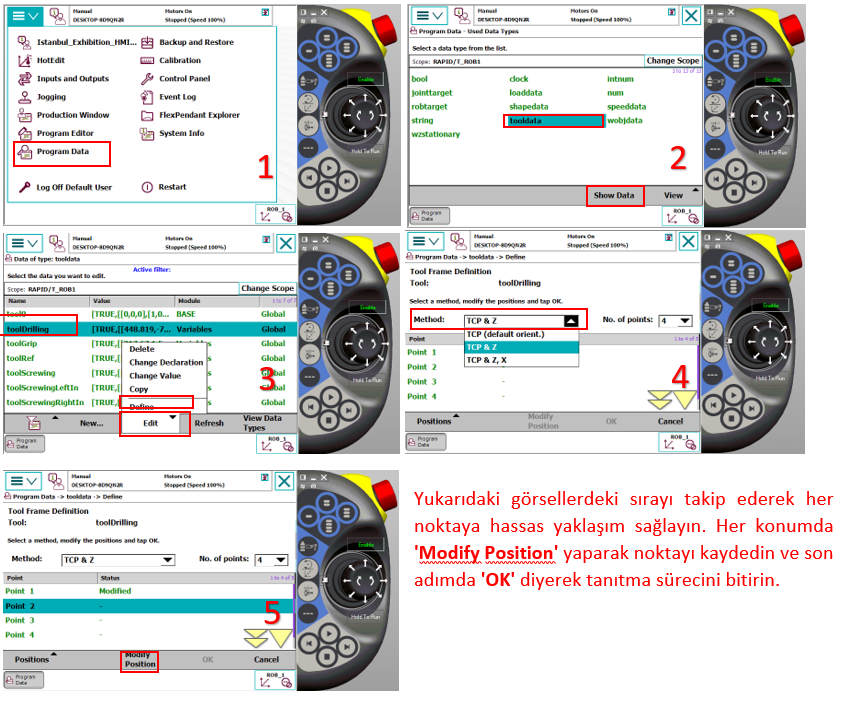
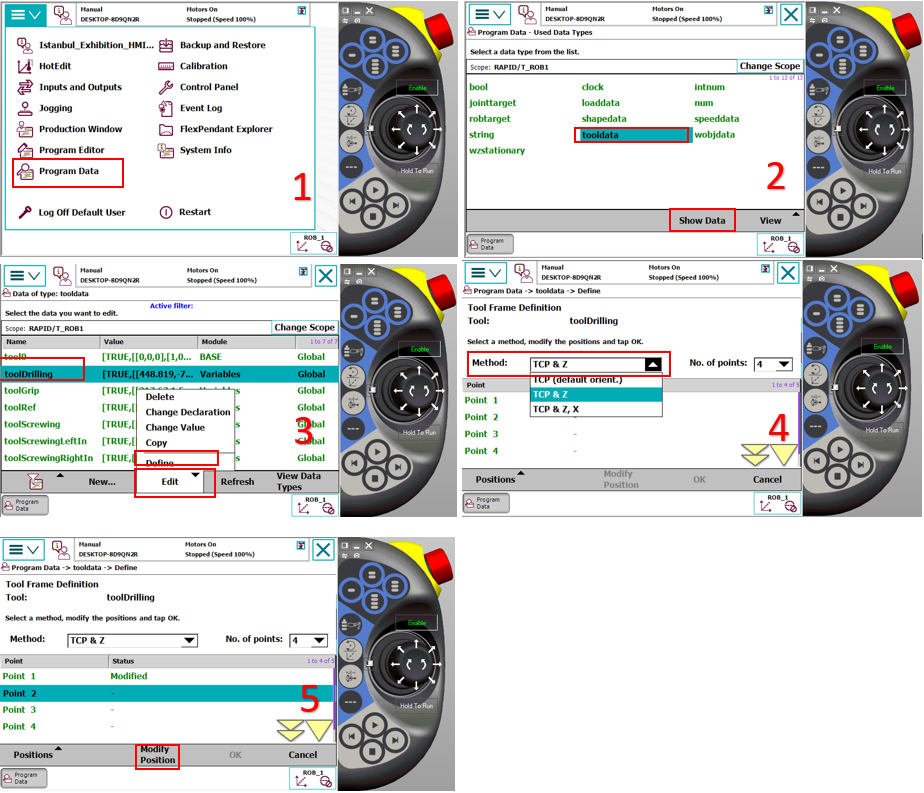
Update turkish.md

diff --git a/docs/turkish.md b/docs/turkish.md
@@ -4,52 +4,91 @@ Robot enerjilendiği zaman robot üzerindeki acil butonlar ve harici diğer etki
 
 ![KT803](_media/AcilDurdurma.png)
 
+**A:** Acil Buton 
+
+**B:** Motor On Buton
+
 ## Çalışma Modları
-- **Otomatik Mod :** Üretim Modu
-- **Manuel Mod :** Jog modda hareket ve kontroller yapılabilir.
 
 ![RG830](_media/ModSecim.png)
 
+- **A - Otomatik Mod :** Üretim Modu
+- **B - Manuel Mod :** Jog modda hareket ve kontroller yapılabilir.
+
 ## Jog Hareket ile Robot Eksen Kontrol 
+
 - Robot manuel moddayken, hareket birimlerini devreye almak için FlexPendant'ın sağ tarafında bulunan 'Motor On' (Motorları Aktif Etme) butonuna basılmalıdır.
 
 ![RG830](_media/MotorOnButon.png)
+
+**A:** Motor On Buton
 
 - Sol Üst menü çubuğundan Joging sayfasına girip eksenler ile ilgili durumları görebilirsiniz.
 - Robotta 1-6 arası eksenleri tek tek hareket ettirebiliriz. İlk basımda 1-3 arası ikinci basışta 4-6 arası eksen kontrollerinin yönlerini ilgili eksen numarasının altında görebilirsiniz.
 
 ![RG830](_media/1_6EksenSecim.png)
 
+**A:** 1-6 arası eksen kontrol seçimi
+
+**B:** Anlık seçili olan eksen aralığı
+
 - Robot, lineer olarak X, Y ve Z eksenlerinde hareket ettirilebilir. Bu hareketler, arayüzde seçilen İş Nesnesi (Wobj) referans alınarak gerçekleştirilir ve hareket yönü, ilgili Wobj'nin yönelimine göre tayin edilir.
 
 ![RG830](_media/LineerHareketSecim.png)
+
+**A:** Lineer ve Orientation Hareket Seçim Butonu
+
+**B:** Lineer Hareketin Gösterim Simgesi
 
 - Tool seçimine göre orientation hareket. 
 
 ![RG830](_media/OrientationHareketSecim.png)
 
-## Robot Eksen Kalibrasyonu
-- Robotun ilk kurulumu esnasında, her eksen için ayrı ayrı kalibrasyon işlemi gerçekleştirilmelidir. Kalibrasyon sırasında, her eksene ait sıfır noktası işaretleri (çentikler) birbirini tam karşılayacak şekilde, yüksek hassasiyetle hizalanmalıdır.
+**A:** Lineer ve Orientation Hareket Seçim Butonu
 
+**B:** Orientation Hareketin Gösterim Simgesi
+
+## Robot Eksen Kalibrasyonu
+
+- Robotun ilk kurulumu esnasında, her eksen için ayrı ayrı kalibrasyon işlemi gerçekleştirilmelidir. Kalibrasyon sırasında, her eksene ait sıfır noktası işaretleri (çentikler) birbirini tam karşılayacak şekilde, yüksek hassasiyetle hizalanmalıdır. Her eksenin kendine ait çentiği bulunmaktadır.
 
 ![RG830](_media/EksenCentikleri.png)
 
-- Robot üzerindeki tüm eksenler fiziksel olarak kalibrasyon çentikleriyle hizalandıktan sonra, ilgili değerleri FlexPendant üzerinden kaydetmek için aşağıdaki görsel adımları takip edebilirsiniz. Bu işlem, robotun ilk kurulumunda veya sistemden 'Robot kalibrasyonu kayboldu' uyarısı alındığında uygulanmalıdır.
+- Robot üzerindeki tüm eksenler fiziksel olarak kalibrasyon çentikleriyle hizalandıktan sonra, ilgili değerleri FlexPendant üzerinden kaydetmek için aşağıdaki görsel adımlarını takip edebilirsiniz. Bu işlem, robotun ilk kurulumunda veya sistemden 'Robot kalibrasyonu kayboldu' uyarısı alındığında uygulanmalıdır.
 
 ![RG830](_media/RobotEksenKalibrasyonu.png)
 
 ## TCP (Tool Center Point) Tanıtımı
 
-TCP, robotun uç işlevcisinin (tutucu, vidalama, delme vb.) iş yapacağı tam merkez noktasıdır. Robot kontrol ünitesi varsayılan olarak sadece robotun bilek merkezini (6. eksen flanş merkezi) bilir. Ancak gerçek operasyonlarda işi yapan robotun bileği değil, ona takılan "Tool" (Takım) olduğu için, bu takımın uç noktasının robota matematiksel olarak tanıtılması gerekir.
+TCP (Takım Merkez Noktası) tanımlama işlemi; sabit, ucu sivri bir referans noktasına farklı açılardan yaklaşım yapılarak gerçekleştirilir. Hem merkez noktasının hem de Z ekseni yönünün doğru tanımlanması için aşağıdaki adımlar takip edilmelidir:
 
-TCP Tanıtmanın Amacı Nedir?
-Hassas Hareket: TCP doğru tanımlandığında, robot tüm yönelim (oryantasyon) hareketlerini bu nokta etrafında yapar. Yani robotun bileği hareket etse bile, takımın ucu (TCP)  sabit kalır.
+- TCP&Z İçin Yaklaşım Metodu
 
-Lineer Doğruluk: Robotun X, Y veya Z eksenlerinde doğrusal hareket etmesi istendiğinde, bu hareket bilek merkezine göre değil, tanımlanan TCP noktasına göre hesaplanır.
+Bu işlemde, yüksek hassasiyet sağlamak amacıyla toplam 5 adet yaklaşım noktası tanımlanmalıdır:
 
-Yörünge Takibi: Delme, Vidalama, Tutma robotun iş parçası üzerindeki yolu kusursuz takip edebilmesi için TCP'nin milimetrik hassasiyette olması şarttır.
+Yaklaşım 1, 2 ve 3 (TCP Belirleme): Referans noktasına, aralarında yaklaşık 120° açı bulunacak şekilde üç farklı yönden temas edilir.
 
-- TCP tanıtımı yaparken sabit  mümkünse sivri bir cisme farklı açılardan yaklaşım yaparak tanıtma işlemi gerçekleştirilir.
+Yaklaşım 4 (Dik Bakış): Takım, referans noktasına tam dik (90°) konumdayken temas ettirilir. Bu, yönelim hesaplaması için temel referans noktasıdır.
+
+Yaklaşım 5 (Z Yönü Tanımlama): Takım, referans noktasından Z ekseni doğrultusunda yukarı kaldırılarak tanıtılır. Bu son nokta, robotun takım koordinat sistemindeki pozitif Z yönünü doğru algılamasını sağlar.
+
+- Kritik Uygulama Notları
+
+Hassasiyet: Tüm yaklaşımlar, sabit referans noktasının tepe kısmına (uç noktasına) aynı milimetrik hassasiyetle temas etmelidir. Temas noktalarındaki sapmalar, robotun çalışma hassasiyetini doğrudan düşürür.
+
+Doğrulama: Tanımlama bittikten sonra robot manuel modda (Orientation) hareket ettirilerek, takım ucunun referans noktasında sabit kalıp kalmadığı kontrol edilmelidir.
+
+- Yaklaşım Görselleri
+
+![RG830](_media/TCPyaklasim.png)
+
+- Tool Tanıtma Kalibrasyon Adımları
+
+Yukarıdaki görsel sıralamasını takip ederek her referans noktasına hassas yaklaşım sağlayın. Her bir noktaya erişim tamamlandığında, aşağıdaki görselin 5. adımında belirtilen 'Modify Position' butonuna basarak ilgili koordinatı sisteme kaydedin. Tanımlanması gereken tüm noktalar bu şekilde öğretildikten sonra, 'OK' butonuna basarak kalibrasyon sürecini sonlandırın.
+
+**NOT:** Bu işlem için Robot Manuel Mod da olmalıdır.
+
+![RG830](_media/TCP_TanıtmaAdimları.png)
 
 ## Wobj (Work Object) Tanıtma
 
@@ -64,7 +103,7 @@ X2 (X Ekseni Yönü): X ekseninin doğrultusunu belirleyen ikinci noktadır. X1 
 
 Y1 (Y Ekseni Yönü): Y ekseninin doğrultusunu belirleyen üçüncü noktadır. Bu nokta, X eksenine dik olan pozitif Y yönünü tarif eder.
 
-Robotu herbir tanıtma noktasına  (X1,X2,Y1) ayrı ayrı götürerek üzerine 4 numaralı görselde ki şekilde Modify Position diyerek o noktanın koordinatlarını öğretebilirsiniz. Tüm öğretmeler tamamlandıktan sonra 5 numaralı görseldeki gibi Ok diyerek işlemi tamamlayabiliriz.
+Robotu herbir tanıtma noktasına  (X1,X2,Y1) ayrı ayrı götürerek üzerine 5 numaralı görselde ki şekilde Modify Position diyerek o noktanın koordinatlarını öğretebilirsiniz. Tüm öğretmeler tamamlandıktan sonra 5 numaralı görseldeki gibi Ok diyerek işlemi tamamlayabiliriz.
 
 Otomatik Z Ekseni ve Düzlemsellik
 
@@ -74,10 +113,65 @@ Eğimli Yüzeylerde Hareket: Tanımlanan yüzey eğimli olsa dahi, robot bu yüz
 
 Hassasiyet: X ve Y noktaları arasındaki mesafe ne kadar uzak ve noktalar ne kadar hassas seçilirse, oluşturulan Wobj'nin doğruluğu o derece yüksek olur.
 
-**NOT :** Wobj tanımlama işlemi sırasında kullanılan Tool'un (Takım) TCP değerlerinin doğruluğu, oluşturulan iş nesnesinin hassasiyetini doğrudan etkilemektedir.
+**NOT-1 :** Wobj tanımlama işlemi sırasında kullanılan Tool'un (Takım) TCP değerlerinin doğruluğu, oluşturulan iş nesnesinin hassasiyetini doğrudan etkilemektedir.
+
+**NOT-2:** Bu işlem için Robot Manuel Mod da olmalıdır.
 
 - Wobj tanıtım işleminin nasıl yapılacağını aşağıdaki görsellerden takip edebilirsiniz.
 
 ![RG830](_media/WobjTanıtım.png)
 
+## Kalıp Alma ve Bırakma Noktalarının Öğretilmesi
 
+Sistemde kalıp alma ve bırakma işlemleri aynı koordinat düzlemi üzerinde gerçekleştirilmektedir. Bu nedenle, alma noktası için yapılan tanımlama otomatik olarak bırakma işlemi için de geçerli olacaktır.
+
+- Magazin Yerleşimi ve Yazılımsal Yapı:
+
+Mevcut sistemde, her biri 3 kattan oluşan Sol ve Sağ Magazin yerleşimleri bulunmaktadır. Bu yerleşimler sistem içerisinde F1, F2 ve F3 olarak kategorize edilmiş olup, her bir katın hücre düzeni yazılımsal olarak Array (Dizi) yapıları ile tanımlanmıştır. Bu dizi yapısı, robotun her bir kat içindeki alt bölmelere otomatik ve hassas bir şekilde yönlenmesini sağlar.
+
+**ÖNEMLİ NOT:** Tüm nokta tanımlama ve güncelleme işlemleri, robotun standart çalışma çevrimindeki yönelim değerleri korunarak gerçekleştirilmelidir. Rastgele seçilmiş eklem açıları veya yönelimlerle nokta güncellemesi yapılmamalı, robotun hedef noktaya olması gereken yaklaşım açısında bulunduğu teyit edilmelidir.Rastgele pozisyonlarda yapılan kayıtlar, otomatik modda yörünge hatalarına ve mekanik çarpışmalara sebebiyet verebilir.
+
+- Kalıp alma noktasının tanıtımları yapılırken şu adımlar izlenmelidir:
+
+**Hizalama:** Robot, ilgili alma noktasına manuel modda hassasiyetle konumlandırılmalıdır.
+
+**Mekanik Kontrol:** Gripper açık pozisyondayken, merkezleme pimlerinin kalıp üzerindeki yuvalara tam olarak hizalandığı teyit edilmelidir.
+
+**Kilitleme Testi:** Gripper kapatılarak mekanik uyum ve tutuş güvenliği kontrol edilmelidir.
+
+**Kayıt:** Fiziksel yerleşimin sorunsuz olduğu doğrulandıktan sonra, aşağıda belirtilen görsel yönergeler takip edilerek ilgili Array (Dizi) elemanına ait referans noktasının kayıt işlemi tamamlanmalıdır.
+
+**NOT:** Bu işlem için Robot Manuel Mod da olmalıdır.
+
+![RG830](_media/AlmaBirakmaNokta.png)  ![RG830](_media/AlmaBirakmaNoktaR.png)
+
+## Aksesuar Kontrol Noktalarının Öğretilmesi
+
+Sistemde yer alan her bir aksesuarın varlık/yokluk kontrolü için kendine ait bir kontrol sensörü bulunmaktadır. Aksesuar kontrol noktasının doğru tanımlanması için şu prosedür izlenmelidir:
+
+- Hizalama ve Konumlandırma:
+
+Robot, ilgili istasyondan kalıbı aldıktan sonra, tutuş düzlemini ve oryantasyonunu bozmadan (doğrusal bir rotada) çıkış yapmalıdır. Aksesuar, sensörün tam karşısında ve algılama mesafesi dahilinde kalacak şekilde konumlandırılmalıdır. Robotun bu kontrol noktasındaki pozisyonu, sensörün aksesuarı en kararlı şekilde gördüğü konum olarak belirlenmeli ve kaydedilmelidir.
+
+- Yazılımsal Yapı:
+
+Alma-bırakma noktalarında olduğu gibi, aksesuar kontrol noktaları da her aksesuar grubuna özel olarak isimlendirilmiş Array (Dizi) yapıları içerisinde tanımlanmıştır. Bu sayede her aksesuar tipi için ayrı ve bağımsız kontrol koordinatları oluşturulabilir.
+
+- Kayıt İşlemi:
+Hassas konumlandırma tamamlandıktan sonra, nokta kayıt adımları aşağıdaki görsel yönergeler takip edilerek gerçekleştirilmelidir.
+
+**NOT:** Bu işlem için Robot Manuel Mod da olmalıdır.
+
+![RG830](_media/AksesuarKontrolL.png)  ![RG830](_media/AksesuarKontrolR.png)
+
+## Delme Tool Ucunun Kontrol Noktasının Öğretilmesi
+
+Robot, delme operasyonuna başlamadan önce matkap ucunun bütünlüğünü (kırık kontrolünü) DrillingToolControlProg rutini aracılığıyla denetler. Sistemin bu denetimi sağlıklı bir şekilde gerçekleştirebilmesi için referans kontrol noktasının doğru öğretilmesi kritik bir öneme sahiptir.
+
+- Dikkat Edilmesi Gereken Hususlar:
+
+Tıpkı alma ve bırakma işlemlerinde olduğu gibi, kontrol noktasının da robotun kendi işleyiş çevrimine uygun aynı yönelimde öğretilmesi zorunludur.Robotun bu noktaya standart çalışma açısıyla gelmesi, hem algılama hassasiyetini artırır hem de yörünge hatalarını engeller.
+
+Söz konusu noktanın tanımlanması ve kayıt adımları, aşağıdaki görsellerle detaylandırılmıştır.
+
+![RG830](_media/DrillToolKontrol.png)
